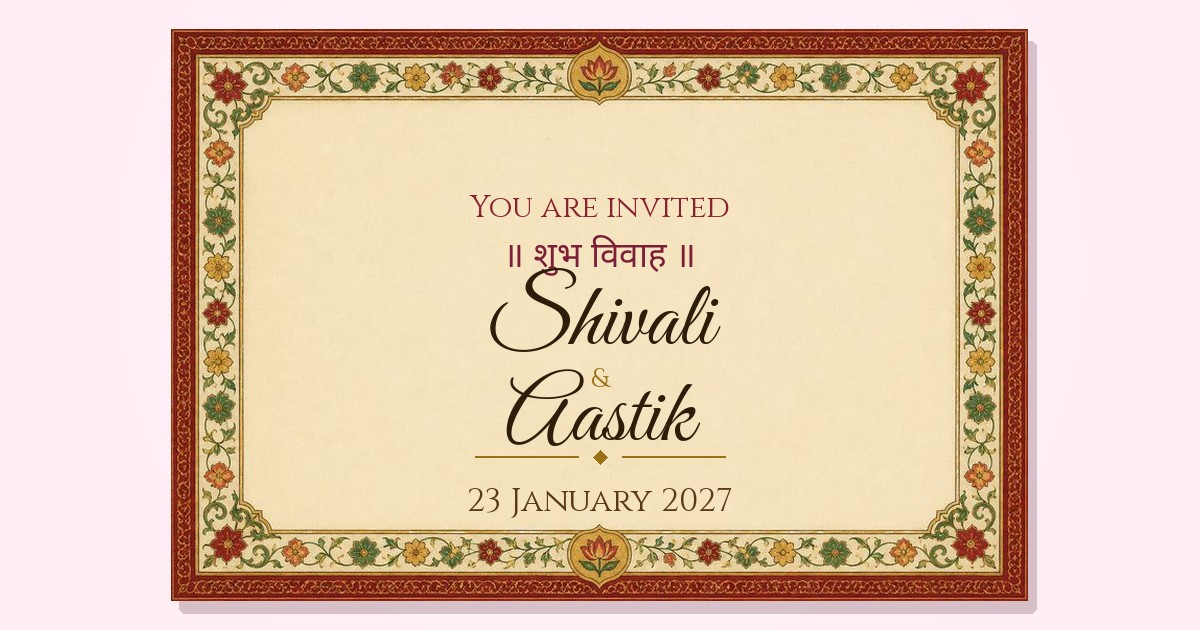
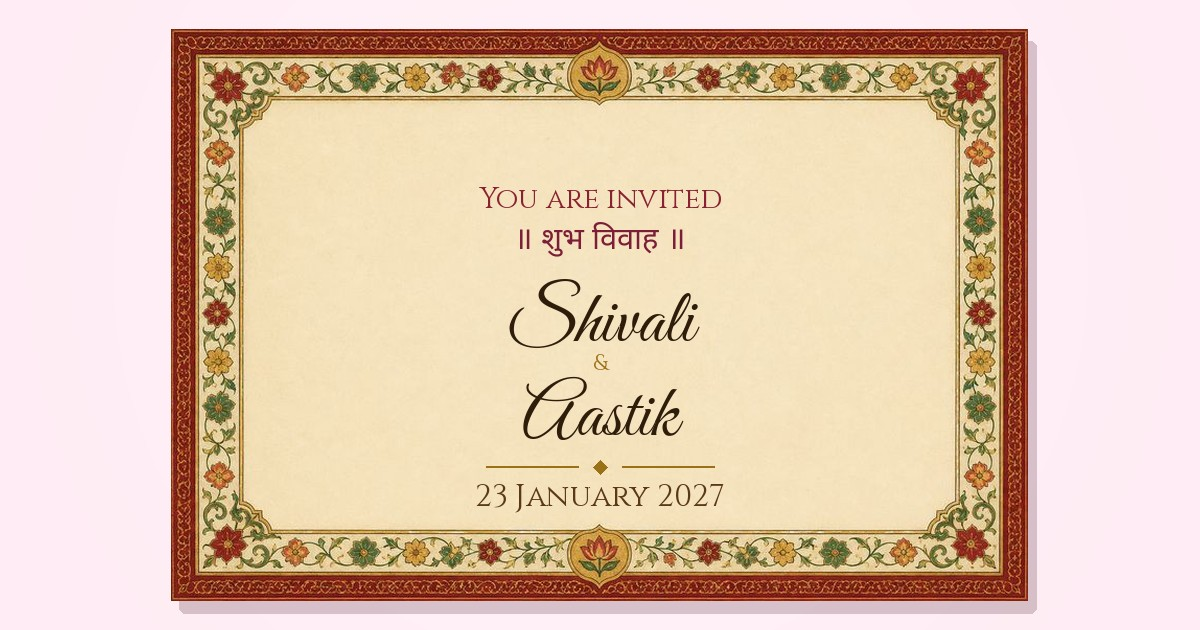
Fix overlapping text on link preview letter.
Stack invitation lines with measured spacing and slightly smaller script names.

Changed region(s): [[0.37, 0.573, 0.6167, 0.8143], [0.4008, 0.3016, 0.6167, 0.5429], [0.4008, 0.4825, 0.4625, 0.573]]

diff --git a/index.html b/index.html
@@ -11,14 +11,14 @@
   <meta property="og:description" content="Wedding Invitation · 23rd January, 2027">
   <meta property="og:type" content="website">
   <meta property="og:url" content="https://shivam-krishana.github.io/weddinginvitation/">
-  <meta property="og:image" content="https://shivam-krishana.github.io/weddinginvitation/og.jpg?v=5">
+  <meta property="og:image" content="https://shivam-krishana.github.io/weddinginvitation/og.jpg?v=6">
   <meta property="og:image:width" content="1200">
   <meta property="og:image:height" content="630">
   <meta property="og:image:alt" content="Wedding invitation for Shivali and Aastik, 23 January 2027">
   <meta name="twitter:card" content="summary_large_image">
   <meta name="twitter:title" content="Shivali weds Aastik">
   <meta name="twitter:description" content="Wedding Invitation · 23rd January, 2027">
-  <meta name="twitter:image" content="https://shivam-krishana.github.io/weddinginvitation/og.jpg?v=5">
+  <meta name="twitter:image" content="https://shivam-krishana.github.io/weddinginvitation/og.jpg?v=6">
   <link rel="icon" href="favicon.svg" type="image/svg+xml">
   <link rel="apple-touch-icon" href="apple-touch-icon.svg">
   <link rel="preconnect" href="https://fonts.googleapis.com">

diff --git a/tools/make-og.py b/tools/make-og.py
@@ -34,8 +34,24 @@ def _blush_bg() -> Image.Image:
     return img
 
 
-def _center(draw: ImageDraw.ImageDraw, text: str, y: int, font, fill: tuple[int, int, int]) -> None:
-    draw.text((W // 2, y), text, font=font, fill=fill, anchor="mm")
+def _line_h(draw: ImageDraw.ImageDraw, text: str, font) -> int:
+    box = draw.textbbox((0, 0), text, font=font, anchor="mt")
+    return box[3] - box[1]
+
+
+def _stack(
+    draw: ImageDraw.ImageDraw,
+    cx: int,
+    top_y: int,
+    lines: list[tuple[str, ImageFont.FreeTypeFont, tuple[int, int, int]]],
+    gaps: list[int],
+) -> int:
+    """Draw lines top-to-bottom; gaps[i] is space after lines[i]. Returns bottom y."""
+    y = top_y
+    for i, (text, font, fill) in enumerate(lines):
+        draw.text((cx, y), text, font=font, fill=fill, anchor="mt")
+        y += _line_h(draw, text, font) + gaps[i]
+    return y
 
 
 def _rule(draw: ImageDraw.ImageDraw, y: int, cx: int, half: int) -> None:
@@ -92,11 +108,11 @@ def main() -> None:
     draw = ImageDraw.Draw(bg)
 
     scale = card_w / 820.0
-    font_eye = ImageFont.truetype(cinzel, max(22, int(30 * scale)))
-    font_hi = _devanagari_font(max(26, int(34 * scale)))
-    font_names = ImageFont.truetype(vibes, max(52, int(88 * scale)))
-    font_amp = ImageFont.truetype(cinzel, max(18, int(26 * scale)))
-    font_date = ImageFont.truetype(cinzel, max(22, int(32 * scale)))
+    font_eye = ImageFont.truetype(cinzel, max(22, int(28 * scale)))
+    font_hi = _devanagari_font(max(24, int(30 * scale)))
+    font_names = ImageFont.truetype(vibes, max(48, int(72 * scale)))
+    font_amp = ImageFont.truetype(cinzel, max(16, int(22 * scale)))
+    font_date = ImageFont.truetype(cinzel, max(22, int(30 * scale)))
 
     maroon = (138, 34, 49)
     hi = (124, 30, 56)
@@ -104,21 +120,42 @@ def main() -> None:
     gold = (154, 113, 23)
     date = (90, 58, 22)
 
-    mid_y = card_y + int(card_h * 0.44)
     cx = W // 2
+    inner_top = card_y + int(card_h * 0.22)
+    inner_bot = card_y + int(card_h * 0.88)
 
-    _center(draw, "You are invited", mid_y - int(70 * scale), font_eye, maroon)
-    _center(draw, "॥ शुभ विवाह ॥", mid_y - int(22 * scale), font_hi, hi)
+    lines = [
+        ("You are invited", font_eye, maroon),
+        ("॥ शुभ विवाह ॥", font_hi, hi),
+        ("Shivali", font_names, ink),
+        ("&", font_amp, gold),
+        ("Aastik", font_names, ink),
+    ]
+    gaps = [
+        int(14 * scale),
+        int(22 * scale),
+        int(6 * scale),
+        int(6 * scale),
+        int(16 * scale),
+    ]
+    block_h = sum(_line_h(draw, t, f) for t, f, _ in lines) + sum(gaps)
 
-    names_y = mid_y + int(42 * scale)
-    _center(draw, "Shivali", names_y, font_names, ink)
-    weds_y = names_y + int(54 * scale)
-    _center(draw, "&", weds_y, font_amp, gold)
-    _center(draw, "Aastik", names_y + int(92 * scale), font_names, ink)
+    rule_gap = int(10 * scale)
+    date_h = _line_h(draw, "23 January 2027", font_date)
+    block_h += rule_gap + 4 + date_h
 
-    rule_y = names_y + int(128 * scale)
-    _rule(draw, rule_y, cx, int(120 * scale))
-    _center(draw, "23 January 2027", rule_y + int(44 * scale), font_date, date)
+    start_y = inner_top + max(0, (inner_bot - inner_top - block_h) // 2)
+    bottom = _stack(draw, cx, start_y, lines, gaps)
+
+    rule_y = bottom + rule_gap
+    _rule(draw, rule_y, cx, int(110 * scale))
+    draw.text(
+        (cx, rule_y + int(18 * scale)),
+        "23 January 2027",
+        font=font_date,
+        fill=date,
+        anchor="mt",
+    )
 
     bg.save(out_path, "JPEG", quality=90, optimize=True)
     print("og.jpg", bg.size, os.path.getsize(out_path) // 1024, "KB")
